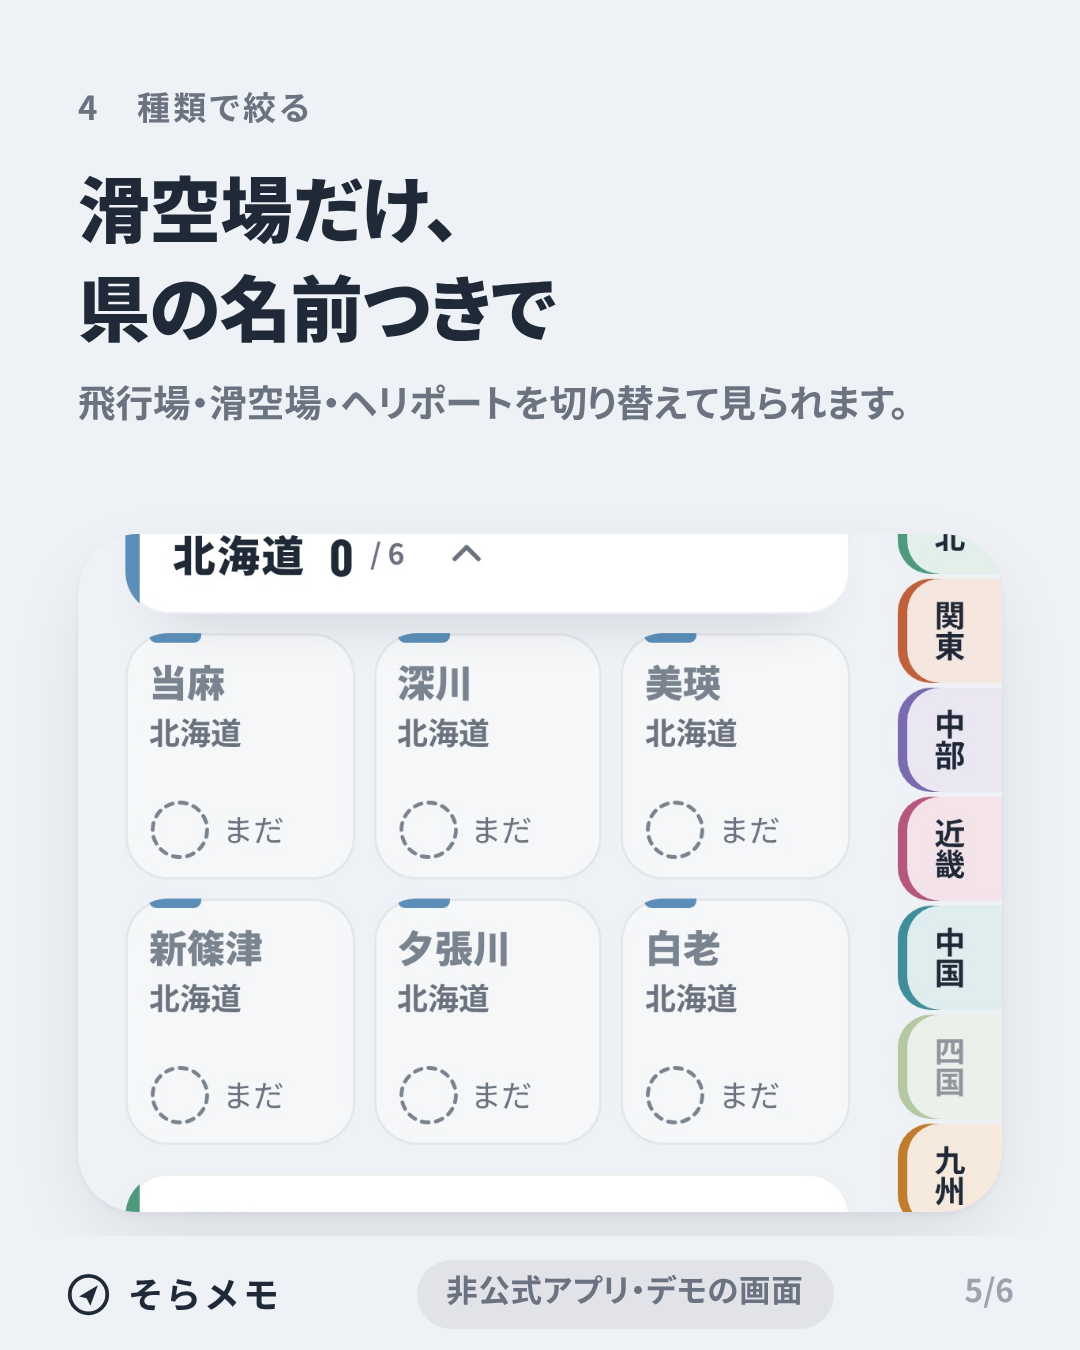
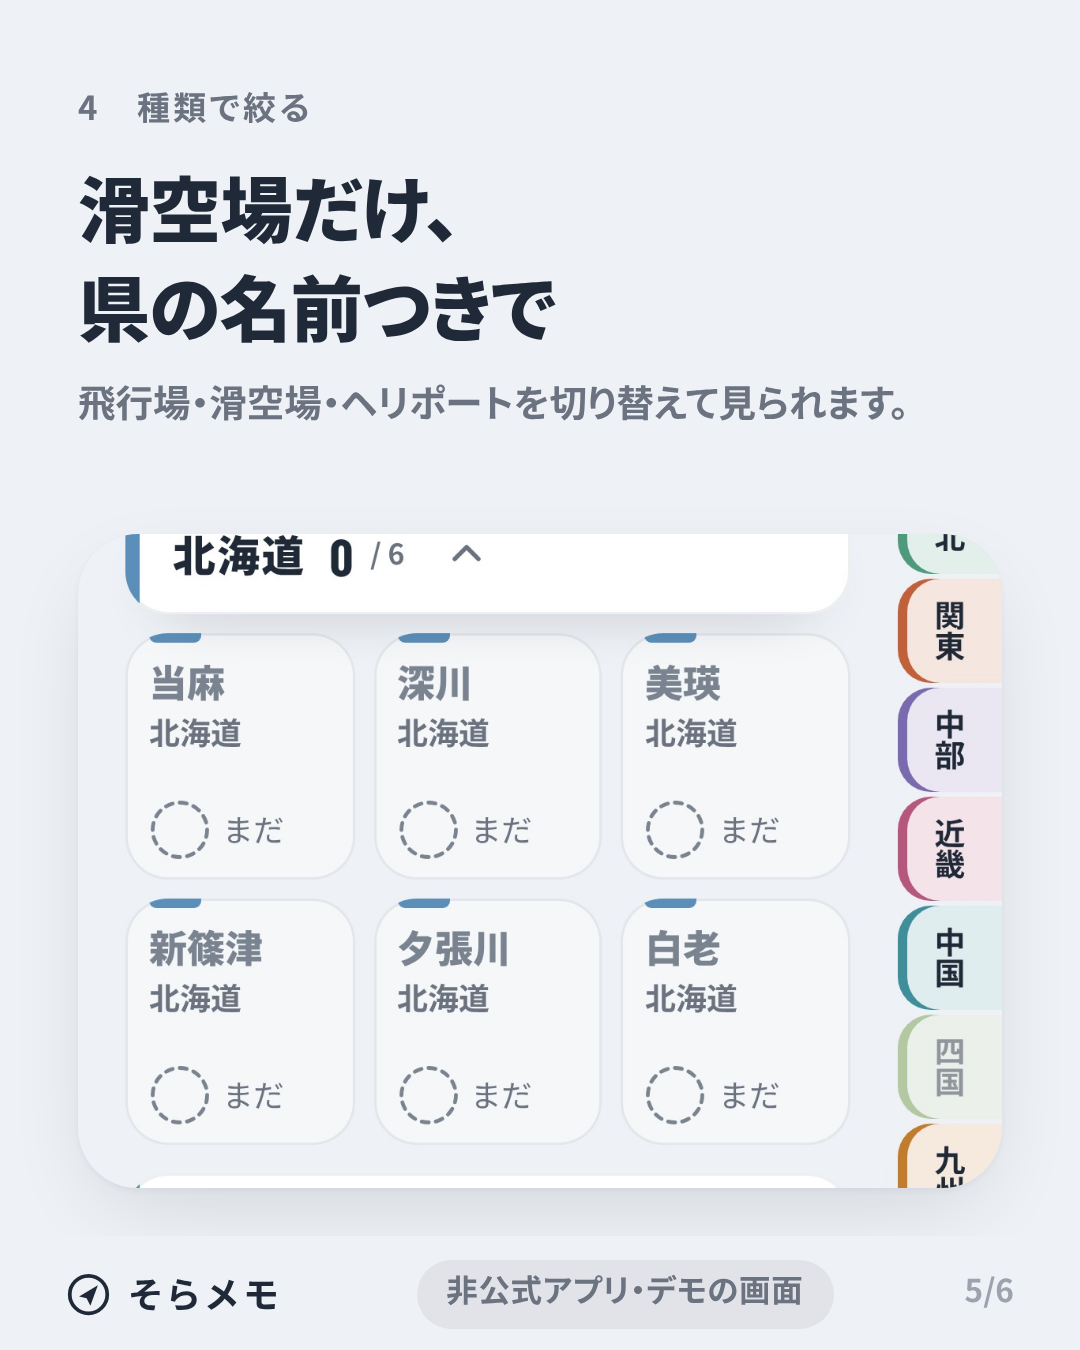
広報：昼の画面で運用カルーセル・3Dカルーセル・リールM の表紙・3日目のストーリーズを作り、リールJ の表紙を差し替え
Claude-Session: https://claude.ai/code/session_01WGRBVN8ZyWC5xu2zawxXsp

Changed region(s): [[0.1222, 0.8711, 0.7944, 0.9022], [0.825, 0.8711, 0.8861, 0.9022]]

diff --git a/docs/marketing/images/new-1121.html b/docs/marketing/images/new-1121.html
@@ -43,7 +43,7 @@ body{background:#D9DEE6;font-family:var(--gothic);color:var(--ink);-webkit-text-
 <div class="shot" style="top:168px;height:236px;left:26px;right:26px"><img class="m" style="--mt:0px" src="new1121/zk-top.jpg" alt=""></div><div class="foot"><span class="logo"><svg viewBox="0 0 24 24"><circle cx="12" cy="12" r="10" fill="none" stroke="currentColor" stroke-width="2"/><path d="M7 13 17 7l-4 11-2-4z" fill="currentColor"/></svg>そらメモ</span><span class="np">非公式アプリ・デモの画面</span><span class="no">1/6</span></div></section>
 <section class="s" id="z2"><div class="pad"><p class="eyebrow">1　地方別</p>
 <h2 class="ttl">右のツメで、<br>地方へひとっ飛び<small>押した空港は回数つき。まだの所は点線の丸。</small></h2></div>
-<div class="shot" style="top:178px;height:226px;left:26px;right:26px"><img class="m" style="--mt:0px" src="new1121/zk-region.jpg" alt=""></div><div class="foot"><span class="logo"><svg viewBox="0 0 24 24"><circle cx="12" cy="12" r="10" fill="none" stroke="currentColor" stroke-width="2"/><path d="M7 13 17 7l-4 11-2-4z" fill="currentColor"/></svg>そらメモ</span><span class="np">非公式アプリ・デモの画面</span><span class="no">2/6</span></div></section>
+<div class="shot" style="top:178px;height:218px;left:26px;right:26px"><img class="m" style="--mt:0px" src="new1121/zk-region.jpg" alt=""></div><div class="foot"><span class="logo"><svg viewBox="0 0 24 24"><circle cx="12" cy="12" r="10" fill="none" stroke="currentColor" stroke-width="2"/><path d="M7 13 17 7l-4 11-2-4z" fill="currentColor"/></svg>そらメモ</span><span class="np">非公式アプリ・デモの画面</span><span class="no">2/6</span></div></section>
 <section class="s" id="z3"><div class="pad"><p class="eyebrow">2　地図</p>
 <h2 class="ttl">日本地図で、<br>行った所が点に<small>3回以上の空港は大きな点。</small></h2></div>
 <div class="shot" style="top:168px;height:236px;left:26px;right:26px"><img class="m" style="--mt:-40px" src="new1121/zk-map.jpg" alt=""></div><div class="foot"><span class="logo"><svg viewBox="0 0 24 24"><circle cx="12" cy="12" r="10" fill="none" stroke="currentColor" stroke-width="2"/><path d="M7 13 17 7l-4 11-2-4z" fill="currentColor"/></svg>そらメモ</span><span class="np">非公式アプリ・デモの画面</span><span class="no">3/6</span></div></section>
@@ -52,7 +52,7 @@ body{background:#D9DEE6;font-family:var(--gothic);color:var(--ink);-webkit-text-
 <div class="shot" style="top:168px;height:236px;left:26px;right:26px"><img class="m" style="--mt:-52px" src="new1121/af-top.jpg" alt=""></div><div class="foot"><span class="logo"><svg viewBox="0 0 24 24"><circle cx="12" cy="12" r="10" fill="none" stroke="currentColor" stroke-width="2"/><path d="M7 13 17 7l-4 11-2-4z" fill="currentColor"/></svg>そらメモ</span><span class="np">非公式アプリ・デモの画面</span><span class="no">4/6</span></div></section>
 <section class="s" id="z5"><div class="pad"><p class="eyebrow">4　種類で絞る</p>
 <h2 class="ttl">滑空場だけ、<br>県の名前つきで<small>飛行場・滑空場・ヘリポートを切り替えて見られます。</small></h2></div>
-<div class="shot" style="top:178px;height:226px;left:26px;right:26px"><img class="m" style="--mt:-8px" src="new1121/af-glider2.jpg" alt=""></div><div class="foot"><span class="logo"><svg viewBox="0 0 24 24"><circle cx="12" cy="12" r="10" fill="none" stroke="currentColor" stroke-width="2"/><path d="M7 13 17 7l-4 11-2-4z" fill="currentColor"/></svg>そらメモ</span><span class="np">非公式アプリ・デモの画面</span><span class="no">5/6</span></div></section>
+<div class="shot" style="top:178px;height:218px;left:26px;right:26px"><img class="m" style="--mt:-8px" src="new1121/af-glider2.jpg" alt=""></div><div class="foot"><span class="logo"><svg viewBox="0 0 24 24"><circle cx="12" cy="12" r="10" fill="none" stroke="currentColor" stroke-width="2"/><path d="M7 13 17 7l-4 11-2-4z" fill="currentColor"/></svg>そらメモ</span><span class="np">非公式アプリ・デモの画面</span><span class="no">5/6</span></div></section>
 <section class="s" id="z6"><div class="pad" style="padding-top:70px"><p class="eyebrow">そらメモ（非公式アプリ）</p>
 <h2 class="ttl" style="font-size:27px">次の旅で、<br>図鑑のマスを1つ。<small>空港の判定範囲の中で半券を切ると、その空港の印が押され、図鑑のマスが埋まります。</small></h2>
 <p style="margin:26px 0 10px"><span class="cta">soramemo.jp</span></p>
@@ -60,7 +60,7 @@ body{background:#D9DEE6;font-family:var(--gothic);color:var(--ink);-webkit-text-
 <div class="foot"><span class="logo"><svg viewBox="0 0 24 24"><circle cx="12" cy="12" r="10" fill="none" stroke="currentColor" stroke-width="2"/><path d="M7 13 17 7l-4 11-2-4z" fill="currentColor"/></svg>そらメモ</span><span class="np">非公式アプリ</span><span class="no">6/6</span></div></section>
 <section class="s story dark" id="rj"><div class="pad" style="padding-top:150px"><p class="eyebrow">羽田の空港ページから</p>
 <h2 class="ttl" style="font-size:31px">いま羽田に降りてくる<br>機体を、3Dで。<small>全体・管制塔・機体の3つの視点。機体の位置は約1分遅れです。</small></h2></div>
-<div class="shot" style="top:340px;height:150px;left:40px;right:40px"><img class="m" style="--mt:-200px" src="new1121/a3-plane.jpg" alt=""></div>
+<div class="shot" style="top:340px;height:150px;left:40px;right:40px"><img class="m" style="--mt:-215px" src="new1121/d-a3-all.jpg" alt=""></div>
 <p class="src" style="top:512px;left:40px;color:#9AA6B6">機体の位置：adsb.lol（ODbL）・滑走路：AIP JAPAN<br>位置は推定を含み、正確さを保証しません。</p>
 <div class="foot" style="height:44px;background:#0F1B2D;color:#9AA6B6"><span class="logo" style="color:#fff"><svg viewBox="0 0 24 24"><circle cx="12" cy="12" r="10" fill="none" stroke="currentColor" stroke-width="2"/><path d="M7 13 17 7l-4 11-2-4z" fill="currentColor"/></svg>そらメモ</span><span class="np" style="background:rgba(255,255,255,.1);color:#C9D1DC">非公式アプリ・デモの画面</span><span class="no"></span></div></section>
 <section class="s story" id="rk"><div class="pad" style="padding-top:150px"><p class="eyebrow">よく行く空港を、ホームに</p>
@@ -83,4 +83,17 @@ body{background:#D9DEE6;font-family:var(--gothic);color:var(--ink);-webkit-text-
 <h2 class="ttl" style="font-size:31px">ヘリポートも、<br>図鑑のマスに。<small>飛行場30・滑空場33・ヘリポート12を、切り替えて県名つきで。</small></h2></div>
 <div class="shot" style="top:320px;height:236px;left:40px;right:40px"><img class="m" style="--mt:-10px" src="new1121/af-heli2.jpg" alt=""></div>
 <div class="foot" style="height:44px"><span class="logo"><svg viewBox="0 0 24 24"><circle cx="12" cy="12" r="10" fill="none" stroke="currentColor" stroke-width="2"/><path d="M7 13 17 7l-4 11-2-4z" fill="currentColor"/></svg>そらメモ</span><span class="np">非公式アプリ・デモの画面</span><span class="no"></span></div></section>
+<section class="s" id="o1"><div class="pad" style="padding-top:28px"><p class="eyebrow">運用タブ</p><h2 class="ttl" style="font-size:24px">運用タブは、<br>カードの一覧に<small>空港を選ぶと、空港の今がカードで並びます。</small></h2></div><div class="shot" style="top:150px;height:218px;left:26px;right:26px"><img class="m" style="--mt:0px" src="new1121/d-ops-top.jpg" alt=""></div><p class="src" style="top:374px">機体の位置：adsb.lol（ODbL）・便：公共交通オープンデータセンター・地図：国土地理院。推定を含みます。</p><div class="foot"><span class="logo"><svg viewBox="0 0 24 24"><circle cx="12" cy="12" r="10" fill="none" stroke="currentColor" stroke-width="2"/><path d="M7 13 17 7l-4 11-2-4z" fill="currentColor"/></svg>そらメモ</span><span class="np">非公式アプリ・デモの画面</span><span class="no">1/5</span></div></section>
+<section class="s" id="o2"><div class="pad" style="padding-top:28px"><p class="eyebrow">1　カード</p><h2 class="ttl" style="font-size:24px">見出し1語と、<br>大きな数字<small>特別塗装機・遅れ・定時・1日の山・撮る人など。</small></h2></div><div class="shot" style="top:150px;height:218px;left:26px;right:26px"><img class="m" style="--mt:-10px" src="new1121/d-ops-cards.jpg" alt=""></div><p class="src" style="top:374px">機体の位置：adsb.lol（ODbL）・便：公共交通オープンデータセンター・地図：国土地理院。推定を含みます。</p><div class="foot"><span class="logo"><svg viewBox="0 0 24 24"><circle cx="12" cy="12" r="10" fill="none" stroke="currentColor" stroke-width="2"/><path d="M7 13 17 7l-4 11-2-4z" fill="currentColor"/></svg>そらメモ</span><span class="np">非公式アプリ・デモの画面</span><span class="no">2/5</span></div></section>
+<section class="s" id="o3"><div class="pad" style="padding-top:28px"><p class="eyebrow">2　地図のカード</p><h2 class="ttl" style="font-size:24px">いま飛んでいる<br>機体の印<small>羽田のまわりにいる機体の数と向き。</small></h2></div><div class="shot" style="top:168px;height:176px;left:26px;right:26px"><img class="m" style="--mt:0px" src="new1121/d-ops-mapcard.jpg" alt=""></div><p class="src" style="top:360px">機体の位置：adsb.lol（ODbL）・便：公共交通オープンデータセンター・地図：国土地理院。推定を含みます。</p><div class="foot"><span class="logo"><svg viewBox="0 0 24 24"><circle cx="12" cy="12" r="10" fill="none" stroke="currentColor" stroke-width="2"/><path d="M7 13 17 7l-4 11-2-4z" fill="currentColor"/></svg>そらメモ</span><span class="np">非公式アプリ・デモの画面</span><span class="no">3/5</span></div></section>
+<section class="s" id="o4"><div class="pad" style="padding-top:28px"><p class="eyebrow">3　専用ページ</p><h2 class="ttl" style="font-size:24px">押すと、その空港の<br>専用ページ<small>空港のまわりの機体と、見る場所。説明は1行と「i」の中に。</small></h2></div><div class="shot" style="top:158px;height:212px;left:26px;right:26px"><img class="m" style="--mt:-30px" src="new1121/d-ops-map.jpg" alt=""></div><p class="src" style="top:374px">機体の位置：adsb.lol（ODbL）・便：公共交通オープンデータセンター・地図：国土地理院。推定を含みます。</p><div class="foot"><span class="logo"><svg viewBox="0 0 24 24"><circle cx="12" cy="12" r="10" fill="none" stroke="currentColor" stroke-width="2"/><path d="M7 13 17 7l-4 11-2-4z" fill="currentColor"/></svg>そらメモ</span><span class="np">非公式アプリ・デモの画面</span><span class="no">4/5</span></div></section>
+<section class="s" id="o5"><div class="pad" style="padding-top:70px"><p class="eyebrow">そらメモ（非公式アプリ）</p><h2 class="ttl" style="font-size:27px">撮る人も、<br>待つ人も、空港の今を。<small>運用タブはカードの一覧。押すと専用ページ、左の端から引くと戻ります。</small></h2>
+<p style="margin:26px 0 10px"><span class="cta">soramemo.jp</span></p><p style="margin:0;font-size:10.5px;color:var(--sub);font-weight:700;line-height:1.7">プロフィールのリンクから。個人で作っている非公式アプリで、航空会社・空港とは関係ありません。画面はデモです。推定は正確さを保証しません。</p></div><div class="foot"><span class="logo"><svg viewBox="0 0 24 24"><circle cx="12" cy="12" r="10" fill="none" stroke="currentColor" stroke-width="2"/><path d="M7 13 17 7l-4 11-2-4z" fill="currentColor"/></svg>そらメモ</span><span class="np">非公式アプリ</span><span class="no">5/5</span></div></section>
+<section class="s story" id="rm"><div class="pad" style="padding-top:150px"><p class="eyebrow">運用タブ</p><h2 class="ttl" style="font-size:29px">空港の今を、カードで。<br>押すと専用ページ。<small>地図のカードには、いま飛んでいる機体の印。</small></h2></div><div class="shot" style="top:330px;height:200px;left:40px;right:40px"><img class="m" style="--mt:-10px" src="new1121/d-ops-cards.jpg" alt=""></div><p class="src" style="top:540px;left:40px">機体の位置：adsb.lol（ODbL）・便：公共交通オープンデータセンター。推定を含みます。</p><div class="foot" style="height:44px"><span class="logo"><svg viewBox="0 0 24 24"><circle cx="12" cy="12" r="10" fill="none" stroke="currentColor" stroke-width="2"/><path d="M7 13 17 7l-4 11-2-4z" fill="currentColor"/></svg>そらメモ</span><span class="np">非公式アプリ・デモの画面</span><span class="no"></span></div></section>
+<section class="s" id="t1"><div class="pad" style="padding-top:28px"><p class="eyebrow">羽田の空港ページから</p><h2 class="ttl" style="font-size:24px">いまの羽田を、<br>3Dで<small>全体は指で左右に回せます。</small></h2></div><div class="shot" style="top:150px;height:218px;left:26px;right:26px"><img class="m" style="--mt:-165px" src="new1121/d-a3-all.jpg" alt=""></div><p class="src" style="top:374px">機体の位置：adsb.lol（ODbL）・滑走路：AIP JAPAN。約1分遅れ・推定を含みます。</p><div class="foot"><span class="logo"><svg viewBox="0 0 24 24"><circle cx="12" cy="12" r="10" fill="none" stroke="currentColor" stroke-width="2"/><path d="M7 13 17 7l-4 11-2-4z" fill="currentColor"/></svg>そらメモ</span><span class="np">非公式アプリ・デモの画面</span><span class="no">1/4</span></div></section>
+<section class="s" id="t2"><div class="pad" style="padding-top:28px"><p class="eyebrow">2　管制塔</p><h2 class="ttl" style="font-size:24px">管制塔の高さから<small>滑走路と、降りてくる機体を見る。</small></h2></div><div class="shot" style="top:150px;height:218px;left:26px;right:26px"><img class="m" style="--mt:-165px" src="new1121/d-a3-tower.jpg" alt=""></div><p class="src" style="top:374px">機体の位置：adsb.lol（ODbL）・滑走路：AIP JAPAN。約1分遅れ・推定を含みます。</p><div class="foot"><span class="logo"><svg viewBox="0 0 24 24"><circle cx="12" cy="12" r="10" fill="none" stroke="currentColor" stroke-width="2"/><path d="M7 13 17 7l-4 11-2-4z" fill="currentColor"/></svg>そらメモ</span><span class="np">非公式アプリ・デモの画面</span><span class="no">2/4</span></div></section>
+<section class="s" id="t3"><div class="pad" style="padding-top:28px"><p class="eyebrow">3　機体</p><h2 class="ttl" style="font-size:24px">1機を、<br>追いかける<small>下の一覧から近くの機体を選ぶ。</small></h2></div><div class="shot" style="top:150px;height:218px;left:26px;right:26px"><img class="m" style="--mt:-150px" src="new1121/d-a3-plane.jpg" alt=""></div><p class="src" style="top:374px">機体の位置：adsb.lol（ODbL）・滑走路：AIP JAPAN。約1分遅れ・推定を含みます。</p><div class="foot"><span class="logo"><svg viewBox="0 0 24 24"><circle cx="12" cy="12" r="10" fill="none" stroke="currentColor" stroke-width="2"/><path d="M7 13 17 7l-4 11-2-4z" fill="currentColor"/></svg>そらメモ</span><span class="np">非公式アプリ・デモの画面</span><span class="no">3/4</span></div></section>
+<section class="s" id="t4"><div class="pad" style="padding-top:58px"><p class="eyebrow">そらメモ（非公式アプリ）</p><h2 class="ttl" style="font-size:26px">押したときだけ、<br>読み込みます。<small>羽田の空港ページの「3Dで見る」から（約0.2MB）。3D はいまは羽田だけです。</small></h2></div>
+<div class="shot" style="top:226px;height:58px;left:60px;right:60px"><img class="m" style="--mt:0px" src="new1121/d-a3-pill.jpg" alt=""></div><div class="pad" style="top:300px"><p style="margin:0 0 10px"><span class="cta">soramemo.jp</span></p><p style="margin:0;font-size:10.5px;color:var(--sub);font-weight:700;line-height:1.7">プロフィールのリンクから。個人で作っている非公式アプリで、航空会社・空港とは関係ありません。画面はデモです。地上の機体はまだ出ません。</p></div><div class="foot"><span class="logo"><svg viewBox="0 0 24 24"><circle cx="12" cy="12" r="10" fill="none" stroke="currentColor" stroke-width="2"/><path d="M7 13 17 7l-4 11-2-4z" fill="currentColor"/></svg>そらメモ</span><span class="np">非公式アプリ</span><span class="no">4/4</span></div></section>
+<section class="s story" id="s3"><div class="pad" style="padding-top:70px"><p class="eyebrow">羽田の3D</p><h2 class="ttl" style="font-size:30px">どの視点が好き？<small>全体・管制塔・機体の3つから。</small></h2></div><div class="shot" style="top:190px;height:260px;left:40px;right:40px"><img class="m" style="--mt:-120px" src="new1121/d-a3-rot.jpg" alt=""></div><p class="src" style="top:458px;left:40px">機体の位置：adsb.lol（ODbL）・滑走路：AIP JAPAN。約1分遅れ・推定。</p><div class="poll" style="top:490px">ここに アンケートのスタンプ<br>（全体／管制塔／機体）</div><div class="poll" style="top:566px;padding:10px">ここに リンクのスタンプ</div><div class="foot" style="height:44px"><span class="logo"><svg viewBox="0 0 24 24"><circle cx="12" cy="12" r="10" fill="none" stroke="currentColor" stroke-width="2"/><path d="M7 13 17 7l-4 11-2-4z" fill="currentColor"/></svg>そらメモ</span><span class="np">非公式アプリ・デモの画面</span><span class="no"></span></div></section>
 </main></body></html>

diff --git a/docs/marketing/new-1121.md b/docs/marketing/new-1121.md
@@ -12,19 +12,19 @@ PM 11/21 1時15分（本人「広報もやろう」）。ブランチ ads/new-11
 | 日 | 時刻 | 種類 | 中身 | 画像・動画 |
 |---|---|---|---|---|
 | **11/21（土）** | 10:00 | リール（15秒） | **リールL 半券を、指で切る** | 表紙 `reelL-cover.png` できた。動画は本人（デモでよい） |
-| | 12:30 | フィード（カルーセル5枚） | **運用タブは、カードの一覧に** | 朝（8時半すぎ）に本番で撮って作る（夜は中身が「—」） |
-| | 16:00 | リール（15秒） | **リールM 運用：カードを押すと専用ページ** | 表紙は朝に撮る。動画は本人（昼に） |
+| | 12:30 | フィード（カルーセル5枚） | **運用タブは、カードの一覧に** | `ops-1〜5.png` できた（11/21 8時41分の本番・地図14機） |
+| | 16:00 | リール（15秒） | **リールM 運用：カードを押すと専用ページ** | 表紙 `reelM-cover.png` できた。動画は本人（昼に） |
 | | 21:00 | ストーリーズ | **いちばん最近、半券を切った空港は？**（質問のスタンプ＋リンク） | `story-1121.png` できた |
 | **11/22（日）** | 10:00 | リール（15秒） | **リールN ヘリポートも、図鑑のマスに** | 表紙 `reelN-cover.png` できた。動画は本人 |
 | | 12:30 | フィード（カルーセル6枚） | **図鑑**（下の「11/21 10:00 図鑑のカルーセル」をこの日に） | `zk-1〜6.png` できた |
 | | 16:00 | リール | リールE 近くの空港（前のまま） | reels.md |
 | | 19:00 | リール（15〜18秒） | **リールK ピン止め**（下の 11/29 の台本。運用の場面は外して、ピン止めだけで15秒） | 表紙 `reelK-cover.png` できた。動画は本人 |
 | | 21:00 | ストーリーズ | 投稿5 多かった空港＋リンク（前のまま） | 前のまま |
-| **11/23（月・祝）** | 10:00 | リール（15〜18秒） | **リールJ 羽田の3D**（下の台本） | 表紙は朝に昼の画面へ差し替え。動画は本人 |
-| | 12:30 | フィード（カルーセル4枚） | **羽田の3D、3つの視点** | 朝に本番で撮って作る |
+| **11/23（月・祝）** | 10:00 | リール（15〜18秒） | **リールJ 羽田の3D**（下の台本） | 表紙 `reelJ-cover.png` を昼の画面（9機）に差し替えた。動画は本人 |
+| | 12:30 | フィード（カルーセル4枚） | **羽田の3D、3つの視点** | `3d-1〜4.png` できた（11/21 8時半すぎの本番・9機） |
 | | 16:00 | リール（15秒） | **リールO 乗った便の、実際の道すじ**（本人の便を1つ画面収録。便名・日付・座席は映さない。撮れなければ出さない） | 本人 |
 | | 19:00 | フィード（カルーセル5枚） | **フライト：乗った便が、実際の時刻で残る**（下の文面）。1〜3枚目の画像が間に合わなければ 11/28 10:00 へ | 実際の時刻の便の画面待ち |
-| | 21:00 | ストーリーズ | **3Dのどの視点が好き？**（アンケート：全体／管制塔／機体＋リンク） | 朝に撮って作る |
+| | 21:00 | ストーリーズ | **3Dのどの視点が好き？**（アンケート：全体／管制塔／機体＋リンク） | `story-1123.png` できた |
 
 - 間隔：どの日もフィードとリールは2時間以上、リンクのスタンプは1日1回で夜のストーリーズだけ（フィードと8時間以上あく）
 - 11/23 は月曜（祝日）。決まりの「金・土・日」の外だが、本人の「3日間」の指示で出す
@@ -170,7 +170,7 @@ PM 11/21 1時15分（本人「広報もやろう」）。ブランチ ads/new-11
 
 ### 11/23（月・祝）21:00　ストーリーズ「3Dのどの視点が好き？」
 
-3Dの「全体」の画面に、アンケートのスタンプ（全体／管制塔／機体）とリンクのスタンプ。画像は朝に昼の画面で作る
+画像：`images/png/story-1123.png`。アンケートのスタンプ（全体／管制塔／機体）とリンクのスタンプを重ねる
 
 ---
 

diff --git a/docs/pm/report-new-1121.md b/docs/pm/report-new-1121.md
@@ -46,3 +46,9 @@
 朝の回（8時40分ごろ）への引き継ぎ
 - 運用カルーセルとリールM は夜の版がある。朝に撮り直すなら `new-1121/tools/` で同じ形に作り直せる（r_J.js が運用、r_N.js が3D）
 - 3D はリールJ を昼の機体が映る版に撮り直す（11/23 10:00 に間に合えばよい）
+
+## 追加2（11/21 8時40分、昼の画面）
+- 本番のデモで昼の画面を撮った（運用：地図14機・遅れ45便、3D：9機）
+- できた：**11/21 12:30 運用カルーセル5枚（ops-1〜5）**・リールM の表紙・11/23 3Dカルーセル4枚（3d-1〜4）・リールJ の表紙を昼の画面に差し替え・11/23 ストーリーズ（story-1123）
+- 3D の空港ページの「3Dで見る」の下にある季節の札（春夏秋冬）は切り落とした
+- 残り：11/23 19:00 フライトのカルーセルの1〜3枚目（実際の時刻の便の画面待ち）と、リールの動画（本人）
